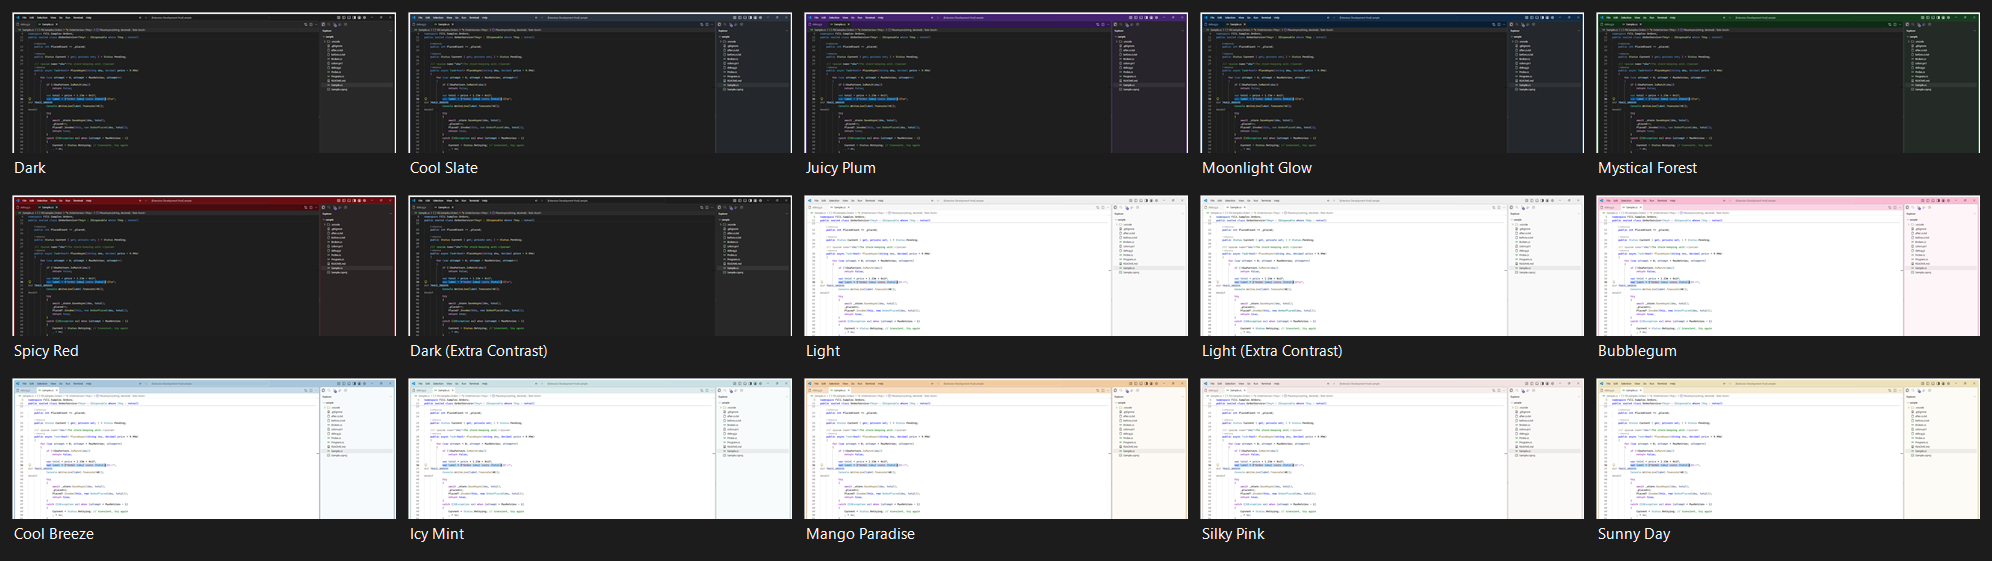
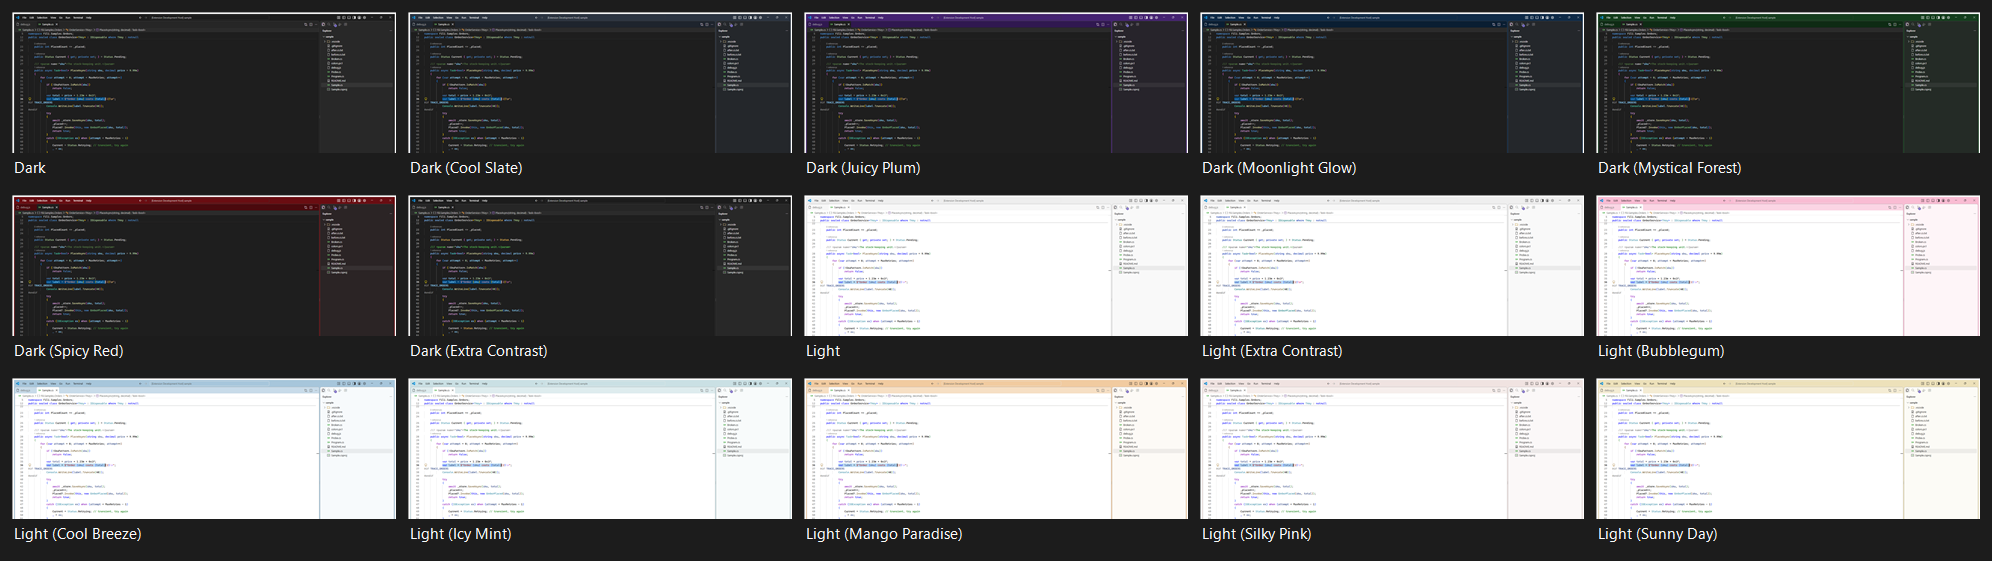
Relabel themes with Dark/Light prefixes
Updated theme labels to include "Dark"/"Light" prefixes, adjusted generator logic, regenerated theme files, bumped package version, and updated docs and ignores.

- Bumped package.json to 0.3.1.
- scripts/variants.mjs: add base (Dark/Light) to generated theme labels unless VS name already starts with Dark/Light (preserve Extra Contrast names).
- Regenerated theme metadata and color-theme JSON files to "Fili.VSCode2026 Dark (…)" / "Fili.VSCode2026 Light (…)" format.
- README.md and CHANGELOG.md: updated theme listings and added 0.3.1 changelog entry noting relabeling and theme ID/label behavior.
- Docs/assets: updated themes.png.
- .gitignore and .vscodeignore: added .vs/ (ignore VS artifacts and vsix handling).
- Docs: added notes that theme labels are stored in user settings and package.json must list every theme (build checks).

diff --git a/README.md b/README.md
@@ -25,12 +25,12 @@ Besides Dark and Light, the extension carries every other theme Visual Studio 20
 
 | Built on Dark | Built on Light |
 |---|---|
-| Fili.VSCode2026 Cool Slate | Fili.VSCode2026 Bubblegum |
-| Fili.VSCode2026 Juicy Plum | Fili.VSCode2026 Cool Breeze |
-| Fili.VSCode2026 Moonlight Glow | Fili.VSCode2026 Icy Mint |
-| Fili.VSCode2026 Mystical Forest | Fili.VSCode2026 Mango Paradise |
-| Fili.VSCode2026 Spicy Red | Fili.VSCode2026 Silky Pink |
-| Fili.VSCode2026 Dark (Extra Contrast) | Fili.VSCode2026 Sunny Day |
+| Fili.VSCode2026 Dark (Cool Slate) | Fili.VSCode2026 Light (Bubblegum) |
+| Fili.VSCode2026 Dark (Juicy Plum) | Fili.VSCode2026 Light (Cool Breeze) |
+| Fili.VSCode2026 Dark (Moonlight Glow) | Fili.VSCode2026 Light (Icy Mint) |
+| Fili.VSCode2026 Dark (Mystical Forest) | Fili.VSCode2026 Light (Mango Paradise) |
+| Fili.VSCode2026 Dark (Spicy Red) | Fili.VSCode2026 Light (Silky Pink) |
+| Fili.VSCode2026 Dark (Extra Contrast) | Fili.VSCode2026 Light (Sunny Day) |
 | | Fili.VSCode2026 Light (Extra Contrast) |
 
 ![All fifteen themes](docs/themes.png)

diff --git a/CLAUDE.md b/CLAUDE.md
@@ -74,6 +74,12 @@ decoration colours were left out on purpose — the first would force Dark on ev
 picked a theme, the others change behaviour for users of any theme — so they stay optional in the
 README.
 
+**Theme labels are what users' settings store.** A variant is labelled with its base first
+("Fili.VSCode2026 Dark (Cool Slate)"); `variants.mjs` generates it. VS Code saves a chosen theme by
+its `id`, or by its `label` when there is none, so relabelling a theme un-selects it for everyone
+using it. That was acceptable in 0.3.1 because the extension had no users yet. Once it does, rename
+a label only together with an `id` that keeps the old name.
+
 **`package.json` lists every theme, and the build checks it.** Adding or removing a variant means
 updating `contributes.themes`; the build fails and prints the exact list it expects.
 

diff --git a/CHANGELOG.md b/CHANGELOG.md
@@ -1,5 +1,10 @@
 # Changelog
 
+## 0.3.1
+
+- Each variant's name now says whether it is dark or light, so the theme picker reads
+  "Fili.VSCode2026 Dark (Cool Slate)", "Fili.VSCode2026 Light (Bubblegum)" and so on.
+
 ## 0.3.0
 
 - The activity bar moves to the top of the side bar by default, as a small row of icons: Visual
